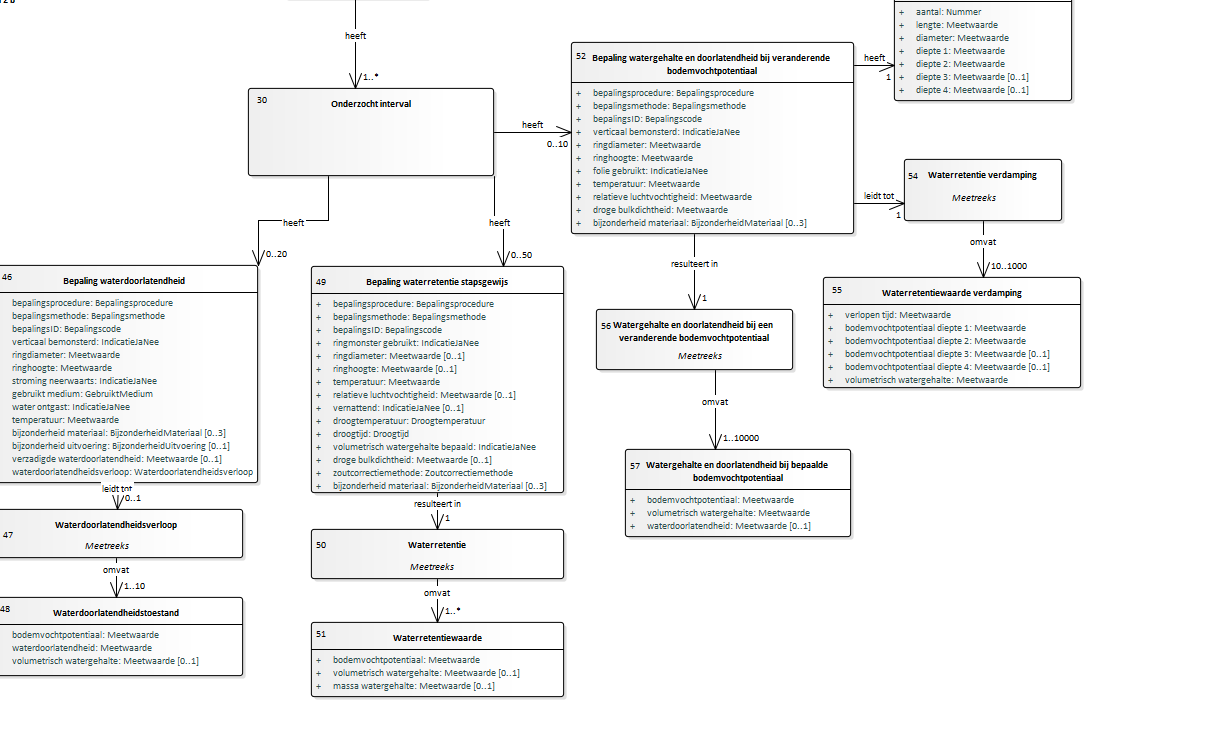
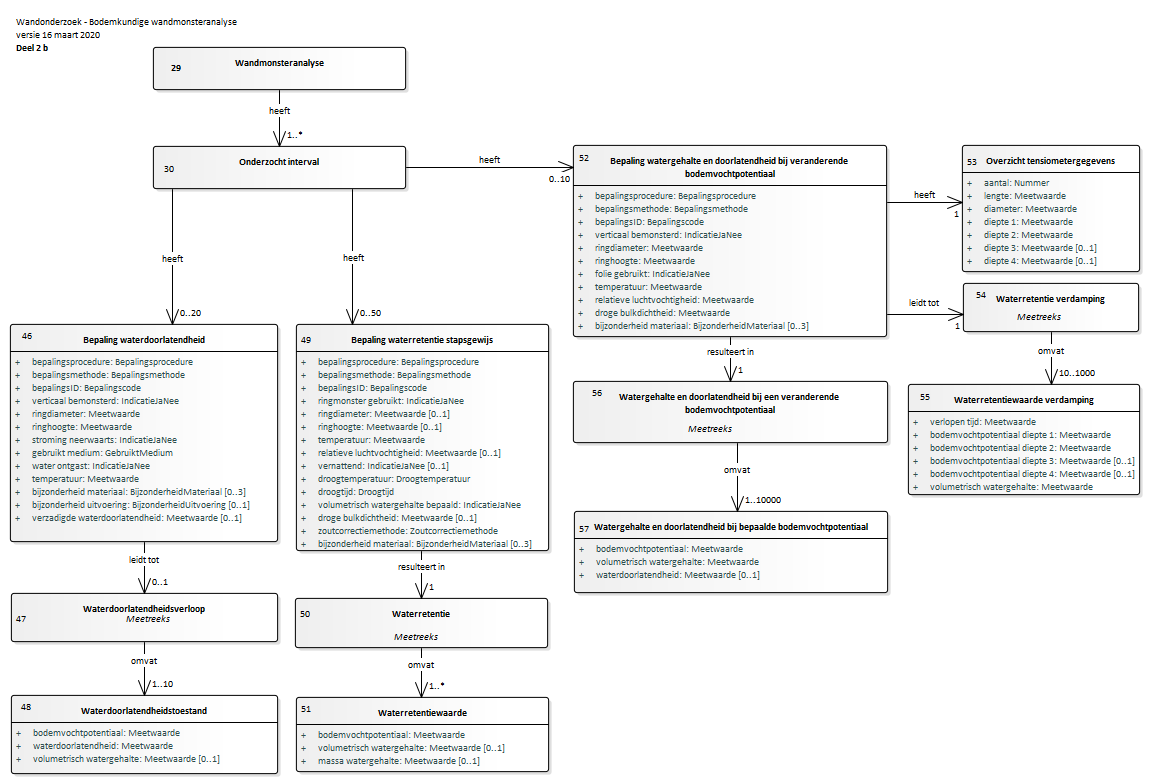
Conceptualmodel-BodemkundigwandonderzoekSFR-1.92.3versie10maart2020-3-20200316-20200316-172001

diff --git a/data/SFR-cat.msword.html b/data/SFR-cat.msword.html
@@ -13,7 +13,7 @@
    <body>
       <p>Conceptual model/Bodemkundig wandonderzoek (SFR)/20200316</p>
       <p>Imvertor: 1.59.2</p>
-      <p>Model release: Conceptualmodel-BodemkundigwandonderzoekSFR-1.92.3versie10maart2020-3-20200316-20200316-154633</p>
+      <p>Model release: Conceptualmodel-BodemkundigwandonderzoekSFR-1.92.3versie10maart2020-3-20200316-20200316-172001</p>
       <hr>
       <section>
          <h1>Artikel 1 Definitie van registratieobject, entiteiten en attributen</h1>
@@ -99,54 +99,54 @@
                      <area shape="rect" alt="Wandprofiel" coords="431,198,706,379" href="#graph_EAID_C8DB22CF_2CEE_428a_924A_FE940C205B86"></map><p><b>Domeinmodel BRO SFR Wandonderzoek- Wandbeschrijving</b></p>
                </div>
                <div class="imageinfo overview"><img src="Images/EAID_F311CC7E_93DB_4668_987D_525140F5B9D0.png" usemap="#imagemap-EAID_F311CC7E_93DB_4668_987D_525140F5B9D0" alt="Diagram "><map name="imagemap-EAID_F311CC7E_93DB_4668_987D_525140F5B9D0">
-                     <area shape="rect" alt="Niet gestandaardiseerde korrelverdeling" coords="655,448,745,518" href="#graph_EAID_85392C61_2694_433a_89B1_7CB7439020AE">
-                     <area shape="rect" alt="Fractie" coords="853,448,1004,518" href="#graph_EAID_431226DB_231C_42b8_8010_00402BDFC5AB">
-                     <area shape="rect" alt="Uitgebreide verdeling fractie 63tot2000um" coords="818,610,1013,763" href="#graph_EAID_A3EFAD78_CF43_496b_9454_F58C164C823C">
-                     <area shape="rect" alt="Standaard verdeling fractie 63tot2000um" coords="606,613,801,701" href="#graph_EAID_D9F10174_6BE1_4726_AD71_3E27E1A28945">
-                     <area shape="rect" alt="Uitgebreide verdeling fractie kleiner50um" coords="394,613,589,740" href="#graph_EAID_E1824E51_FA7A_4696_88DF_D4B613459AE6">
-                     <area shape="rect" alt="Standaard verdeling fractie kleiner50um" coords="182,613,377,688" href="#graph_EAID_473562AD_F147_491d_ABC1_DC031CC8025F">
-                     <area shape="rect" alt="Minimale verdeling fractie kleiner50um" coords="-30,613,165,675" href="#graph_EAID_9662F2BD_475F_46e6_A8FC_5DBC439C35A0">
-                     <area shape="rect" alt="Basis korrelgrootteverdeling" coords="405,476,772,616" href="#graph_EAID_871F5094_E2B5_47a6_8F29_74B442A18DDA">
-                     <area shape="rect" alt="Bepaling korrelgrootteverdeling" coords="367,281,716,434" href="#graph_EAID_8A3656CD_0F50_48f6_9CF0_0890F48CA39A">
-                     <area shape="rect" alt="Bepaling organischestofgehalte" coords="771,281,1022,421" href="#graph_EAID_3C291EC5_84C5_4d25_8E28_F9D97115F1F7">
-                     <area shape="rect" alt="Bepaling organisch koolstofgehalte" coords="771,73,1022,174" href="#graph_EAID_34645118_BDCB_4863_8A47_BF5AE086C2D3">
-                     <area shape="rect" alt="Bepaling zuurgraad" coords="-20,288,225,363" href="#graph_EAID_05CC081B_EF1F_4a65_96D4_4D0492C3A9A4">
-                     <area shape="rect" alt="Wandmonsteranalyse" coords="375,-2,617,73" href="#graph_EAID_DC3E6339_1B2C_482c_AB74_881D1281A2EC">
-                     <area shape="rect" alt="Onderzocht interval" coords="375,126,617,214" href="#graph_EAID_A420FBE3_89CE_466c_875A_7F10AD21E90D"></map><p><b>Domeinmodel BRO SFR Bodemkundige analyses deel 1 1.91 </b></p>
+                     <area shape="rect" alt="Niet gestandaardiseerde korrelverdeling" coords="726,354,816,437" href="#graph_EAID_85392C61_2694_433a_89B1_7CB7439020AE">
+                     <area shape="rect" alt="Fractie" coords="877,441,1028,511" href="#graph_EAID_431226DB_231C_42b8_8010_00402BDFC5AB">
+                     <area shape="rect" alt="Uitgebreide verdeling fractie 63tot2000um" coords="855,676,1050,829" href="#graph_EAID_A3EFAD78_CF43_496b_9454_F58C164C823C">
+                     <area shape="rect" alt="Standaard verdeling fractie 63tot2000um" coords="643,679,838,767" href="#graph_EAID_D9F10174_6BE1_4726_AD71_3E27E1A28945">
+                     <area shape="rect" alt="Uitgebreide verdeling fractie kleiner50um" coords="431,679,626,806" href="#graph_EAID_E1824E51_FA7A_4696_88DF_D4B613459AE6">
+                     <area shape="rect" alt="Standaard verdeling fractie kleiner50um" coords="219,679,414,754" href="#graph_EAID_473562AD_F147_491d_ABC1_DC031CC8025F">
+                     <area shape="rect" alt="Minimale verdeling fractie kleiner50um" coords="7,679,202,741" href="#graph_EAID_9662F2BD_475F_46e6_A8FC_5DBC439C35A0">
+                     <area shape="rect" alt="Basis korrelgrootteverdeling" coords="350,484,717,624" href="#graph_EAID_871F5094_E2B5_47a6_8F29_74B442A18DDA">
+                     <area shape="rect" alt="Bepaling korrelgrootteverdeling" coords="409,273,660,426" href="#graph_EAID_8A3656CD_0F50_48f6_9CF0_0890F48CA39A">
+                     <area shape="rect" alt="Bepaling organischestofgehalte" coords="789,183,1040,295" href="#graph_EAID_3C291EC5_84C5_4d25_8E28_F9D97115F1F7">
+                     <area shape="rect" alt="Bepaling organisch koolstofgehalte" coords="790,50,1041,151" href="#graph_EAID_34645118_BDCB_4863_8A47_BF5AE086C2D3">
+                     <area shape="rect" alt="Bepaling zuurgraad" coords="106,273,351,348" href="#graph_EAID_05CC081B_EF1F_4a65_96D4_4D0492C3A9A4">
+                     <area shape="rect" alt="Wandmonsteranalyse" coords="409,13,660,88" href="#graph_EAID_DC3E6339_1B2C_482c_AB74_881D1281A2EC">
+                     <area shape="rect" alt="Onderzocht interval" coords="409,135,660,223" href="#graph_EAID_A420FBE3_89CE_466c_875A_7F10AD21E90D"></map><p><b>Domeinmodel BRO SFR Bodemkundige analyses deel 1 1.91 </b></p>
                </div>
                <div class="imageinfo overview"><img src="Images/EAID_2E9B0773_D299_49e6_BEBA_866A5B1961C2.png" usemap="#imagemap-EAID_2E9B0773_D299_49e6_BEBA_866A5B1961C2" alt="Diagram "><map name="imagemap-EAID_2E9B0773_D299_49e6_BEBA_866A5B1961C2">
-                     <area shape="rect" alt="Wandmonsteranalyse" coords="298,-31,443,-3" href="#graph_EAID_DC3E6339_1B2C_482c_AB74_881D1281A2EC">
-                     <area shape="rect" alt="Krimptoestand" coords="-7,594,217,682" href="#graph_EAID_ABD5754F_2F97_48b5_B6AA_798E8E996A1B">
-                     <area shape="rect" alt="Krimpverloop" coords="14,531,196,559" href="#graph_EAID_368A7E5B_2AC2_4377_898A_204592B121EE">
-                     <area shape="rect" alt="Bepaling krimpverloop" coords="-12,376,229,490" href="#graph_EAID_FE20ED5D_F749_4cbf_A3F0_622FD6CE25DE">
-                     <area shape="rect" alt="Waterdoorlatendheidstoestand" coords="324,603,538,682" href="#graph_EAID_B49C8011_2704_45aa_B634_D2A7C3DBA664">
-                     <area shape="rect" alt="Waterdoorlatendheidsverloop" coords="324,531,602,580" href="#graph_EAID_7E57EB8B_0FFF_4b51_8B5A_AE9275E95298">
-                     <area shape="rect" alt="Waterretentiewaarde" coords="611,607,825,682" href="#graph_EAID_F02CB409_6369_43fa_851D_041176F3D170">
-                     <area shape="rect" alt="Waterretentie" coords="625,531,820,559" href="#graph_EAID_D23C916F_2BD4_4ea8_8084_CD4A129DC709">
-                     <area shape="rect" alt="Overzicht tensiometergegevens" coords="909,-27,1088,103" href="#graph_EAID_C8F6BEB6_3483_4781_A0FC_156AA99B7B0C">
-                     <area shape="rect" alt="Waterretentiewaarde verdamping" coords="867,250,1101,361" href="#graph_EAID_E568963F_D23E_4b85_AE99_F8FF7B47842B">
-                     <area shape="rect" alt="Waterretentie verdamping" coords="905,174,1207,223" href="#graph_EAID_2DFF99AA_EEBB_4f93_BFBE_9601B723031A">
-                     <area shape="rect" alt="Bepaling watergehalte en doorlatendheid bij veranderende bodemvochtpotentiaal" coords="598,-27,1119,178" href="#graph_EAID_49AD3898_158D_47c7_B1AF_C839D2CB7B68">
-                     <area shape="rect" alt="Bepaling waterretentie stapsgewijs" coords="598,264,839,491" href="#graph_EAID_BAE772BD_B71F_4124_98FC_F7EF5E68BCBF">
-                     <area shape="rect" alt="Bepaling waterdoorlatendheid" coords="301,303,569,521" href="#graph_EAID_BCDCEB7C_2766_41e9_9958_35F5860BE49A">
-                     <area shape="rect" alt="Bepaling droge bulkdichtheid" coords="-12,87,229,227" href="#graph_EAID_A1E3A70D_62A1_406f_8D49_F395104462BB">
-                     <area shape="rect" alt="Onderzocht interval" coords="263,87,509,175" href="#graph_EAID_A420FBE3_89CE_466c_875A_7F10AD21E90D"></map><p><b>Domeinmodel BRO SFR Bodemkundige analyses deel 2 1.91</b></p>
+                     <area shape="rect" alt="Wandmonsteranalyse" coords="285,19,531,47" href="#graph_EAID_DC3E6339_1B2C_482c_AB74_881D1281A2EC">
+                     <area shape="rect" alt="Krimptoestand" coords="15,644,239,732" href="#graph_EAID_ABD5754F_2F97_48b5_B6AA_798E8E996A1B">
+                     <area shape="rect" alt="Krimpverloop" coords="36,581,218,609" href="#graph_EAID_368A7E5B_2AC2_4377_898A_204592B121EE">
+                     <area shape="rect" alt="Bepaling krimpverloop" coords="10,426,251,540" href="#graph_EAID_FE20ED5D_F749_4cbf_A3F0_622FD6CE25DE">
+                     <area shape="rect" alt="Waterdoorlatendheidstoestand" coords="346,653,560,732" href="#graph_EAID_B49C8011_2704_45aa_B634_D2A7C3DBA664">
+                     <area shape="rect" alt="Waterdoorlatendheidsverloop" coords="346,581,624,630" href="#graph_EAID_7E57EB8B_0FFF_4b51_8B5A_AE9275E95298">
+                     <area shape="rect" alt="Waterretentiewaarde" coords="633,657,847,732" href="#graph_EAID_F02CB409_6369_43fa_851D_041176F3D170">
+                     <area shape="rect" alt="Waterretentie" coords="647,581,842,609" href="#graph_EAID_D23C916F_2BD4_4ea8_8084_CD4A129DC709">
+                     <area shape="rect" alt="Overzicht tensiometergegevens" coords="931,23,1110,153" href="#graph_EAID_C8F6BEB6_3483_4781_A0FC_156AA99B7B0C">
+                     <area shape="rect" alt="Waterretentiewaarde verdamping" coords="889,300,1123,411" href="#graph_EAID_E568963F_D23E_4b85_AE99_F8FF7B47842B">
+                     <area shape="rect" alt="Waterretentie verdamping" coords="927,224,1229,273" href="#graph_EAID_2DFF99AA_EEBB_4f93_BFBE_9601B723031A">
+                     <area shape="rect" alt="Bepaling watergehalte en doorlatendheid bij veranderende bodemvochtpotentiaal" coords="620,23,1141,228" href="#graph_EAID_49AD3898_158D_47c7_B1AF_C839D2CB7B68">
+                     <area shape="rect" alt="Bepaling waterretentie stapsgewijs" coords="620,314,861,541" href="#graph_EAID_BAE772BD_B71F_4124_98FC_F7EF5E68BCBF">
+                     <area shape="rect" alt="Bepaling waterdoorlatendheid" coords="323,353,591,571" href="#graph_EAID_BCDCEB7C_2766_41e9_9958_35F5860BE49A">
+                     <area shape="rect" alt="Bepaling droge bulkdichtheid" coords="10,137,251,277" href="#graph_EAID_A1E3A70D_62A1_406f_8D49_F395104462BB">
+                     <area shape="rect" alt="Onderzocht interval" coords="285,137,531,167" href="#graph_EAID_A420FBE3_89CE_466c_875A_7F10AD21E90D"></map><p><b>Domeinmodel BRO SFR Bodemkundige analyses deel 2 1.91</b></p>
                </div>
                <div class="imageinfo overview"><img src="Images/EAID_900B6706_7FEE_46f2_B5FB_5FB28C185ED4.png" usemap="#imagemap-EAID_900B6706_7FEE_46f2_B5FB_5FB28C185ED4" alt="Diagram "><map name="imagemap-EAID_900B6706_7FEE_46f2_B5FB_5FB28C185ED4">
-                     <area shape="rect" alt="Watergehalte en doorlatendheid bij bepaalde bodemvochtpotentiaal" coords="625,449,851,537" href="#graph_EAID_321DD240_1DC5_4a4a_A79F_B87D293B2042">
-                     <area shape="rect" alt="Watergehalte en doorlatendheid bij een veranderende bodemvochtpotentiaal" coords="596,309,793,370" href="#graph_EAID_FBF7EE9E_B144_44cb_884B_E43C32018A3C">
-                     <area shape="rect" alt="Wandmonsteranalyse" coords="283,-30,428,-2" href="#graph_EAID_DC3E6339_1B2C_482c_AB74_881D1281A2EC">
-                     <area shape="rect" alt="Waterdoorlatendheidstoestand" coords="-10,597,243,676" href="#graph_EAID_B49C8011_2704_45aa_B634_D2A7C3DBA664">
-                     <area shape="rect" alt="Waterdoorlatendheidsverloop" coords="-10,509,243,558" href="#graph_EAID_7E57EB8B_0FFF_4b51_8B5A_AE9275E95298">
-                     <area shape="rect" alt="Waterretentiewaarde" coords="311,622,564,697" href="#graph_EAID_F02CB409_6369_43fa_851D_041176F3D170">
-                     <area shape="rect" alt="Waterretentie" coords="311,529,564,579" href="#graph_EAID_D23C916F_2BD4_4ea8_8084_CD4A129DC709">
-                     <area shape="rect" alt="Overzicht tensiometergegevens" coords="894,-26,1072,101" href="#graph_EAID_C8F6BEB6_3483_4781_A0FC_156AA99B7B0C">
-                     <area shape="rect" alt="Waterretentiewaarde verdamping" coords="823,277,1081,388" href="#graph_EAID_E568963F_D23E_4b85_AE99_F8FF7B47842B">
-                     <area shape="rect" alt="Waterretentie verdamping" coords="904,159,1062,221" href="#graph_EAID_2DFF99AA_EEBB_4f93_BFBE_9601B723031A">
-                     <area shape="rect" alt="Bepaling watergehalte en doorlatendheid bij veranderende bodemvochtpotentiaal" coords="571,42,854,234" href="#graph_EAID_49AD3898_158D_47c7_B1AF_C839D2CB7B68">
-                     <area shape="rect" alt="Bepaling waterretentie stapsgewijs" coords="311,266,564,493" href="#graph_EAID_BAE772BD_B71F_4124_98FC_F7EF5E68BCBF">
-                     <area shape="rect" alt="Bepaling waterdoorlatendheid" coords="-10,265,258,483" href="#graph_EAID_BCDCEB7C_2766_41e9_9958_35F5860BE49A">
-                     <area shape="rect" alt="Onderzocht interval" coords="248,88,494,176" href="#graph_EAID_A420FBE3_89CE_466c_875A_7F10AD21E90D"></map><p><b>Domeinmodel BRO SFR Bodemkundige analyses deel 2b 1.92.3</b></p>
+                     <area shape="rect" alt="Watergehalte en doorlatendheid bij bepaalde bodemvochtpotentiaal" coords="574,511,888,593" href="#graph_EAID_321DD240_1DC5_4a4a_A79F_B87D293B2042">
+                     <area shape="rect" alt="Watergehalte en doorlatendheid bij een veranderende bodemvochtpotentiaal" coords="573,381,888,443" href="#graph_EAID_FBF7EE9E_B144_44cb_884B_E43C32018A3C">
+                     <area shape="rect" alt="Wandmonsteranalyse" coords="153,47,406,90" href="#graph_EAID_DC3E6339_1B2C_482c_AB74_881D1281A2EC">
+                     <area shape="rect" alt="Waterdoorlatendheidstoestand" coords="11,695,278,774" href="#graph_EAID_B49C8011_2704_45aa_B634_D2A7C3DBA664">
+                     <area shape="rect" alt="Waterdoorlatendheidsverloop" coords="11,593,278,642" href="#graph_EAID_7E57EB8B_0FFF_4b51_8B5A_AE9275E95298">
+                     <area shape="rect" alt="Waterretentiewaarde" coords="296,697,549,772" href="#graph_EAID_F02CB409_6369_43fa_851D_041176F3D170">
+                     <area shape="rect" alt="Waterretentie" coords="295,598,548,648" href="#graph_EAID_D23C916F_2BD4_4ea8_8084_CD4A129DC709">
+                     <area shape="rect" alt="Overzicht tensiometergegevens" coords="962,145,1140,272" href="#graph_EAID_C8F6BEB6_3483_4781_A0FC_156AA99B7B0C">
+                     <area shape="rect" alt="Waterretentiewaarde verdamping" coords="908,384,1140,495" href="#graph_EAID_E568963F_D23E_4b85_AE99_F8FF7B47842B">
+                     <area shape="rect" alt="Waterretentie verdamping" coords="963,283,1139,332" href="#graph_EAID_2DFF99AA_EEBB_4f93_BFBE_9601B723031A">
+                     <area shape="rect" alt="Bepaling watergehalte en doorlatendheid bij veranderende bodemvochtpotentiaal" coords="573,145,887,337" href="#graph_EAID_49AD3898_158D_47c7_B1AF_C839D2CB7B68">
+                     <area shape="rect" alt="Bepaling waterretentie stapsgewijs" coords="296,324,549,551" href="#graph_EAID_BAE772BD_B71F_4124_98FC_F7EF5E68BCBF">
+                     <area shape="rect" alt="Bepaling waterdoorlatendheid" coords="10,324,278,542" href="#graph_EAID_BCDCEB7C_2766_41e9_9958_35F5860BE49A">
+                     <area shape="rect" alt="Onderzocht interval" coords="153,146,406,189" href="#graph_EAID_A420FBE3_89CE_466c_875A_7F10AD21E90D"></map><p><b>Domeinmodel BRO SFR Bodemkundige analyses deel 2b 1.92.3</b></p>
                </div>
                <div class="imageinfo overview"><img src="Images/EAID_D1E5D681_CA87_4e76_B1F1_8114BB715A76.png" usemap="#imagemap-EAID_D1E5D681_CA87_4e76_B1F1_8114BB715A76" alt="Diagram "><map name="imagemap-EAID_D1E5D681_CA87_4e76_B1F1_8114BB715A76">
                      <area shape="rect" alt="Vorm doorlatendheidscurve" coords="586,507,851,608" href="#graph_EAID_C235166C_1A71_4de1_A5D2_53E6850A7B38">
